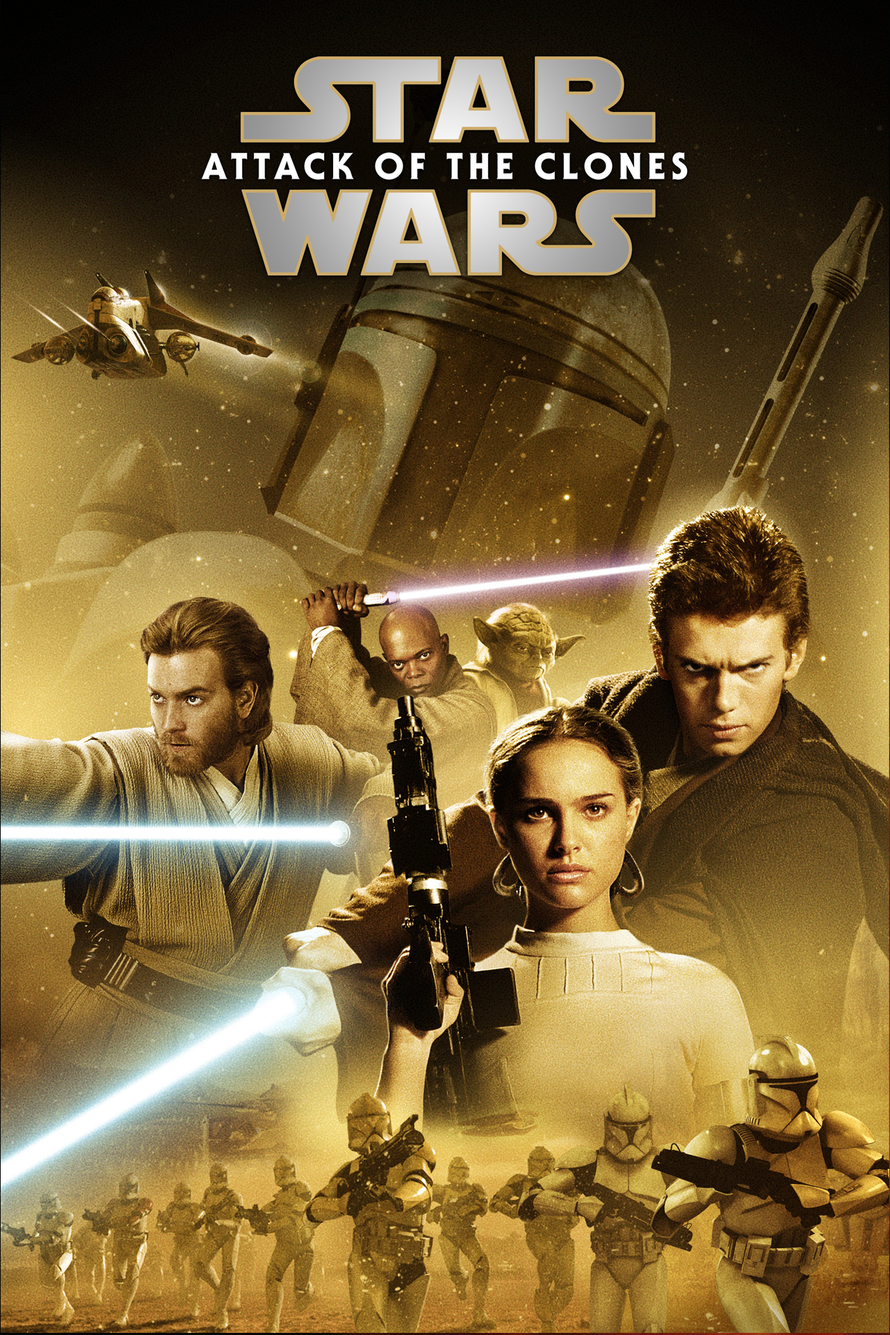
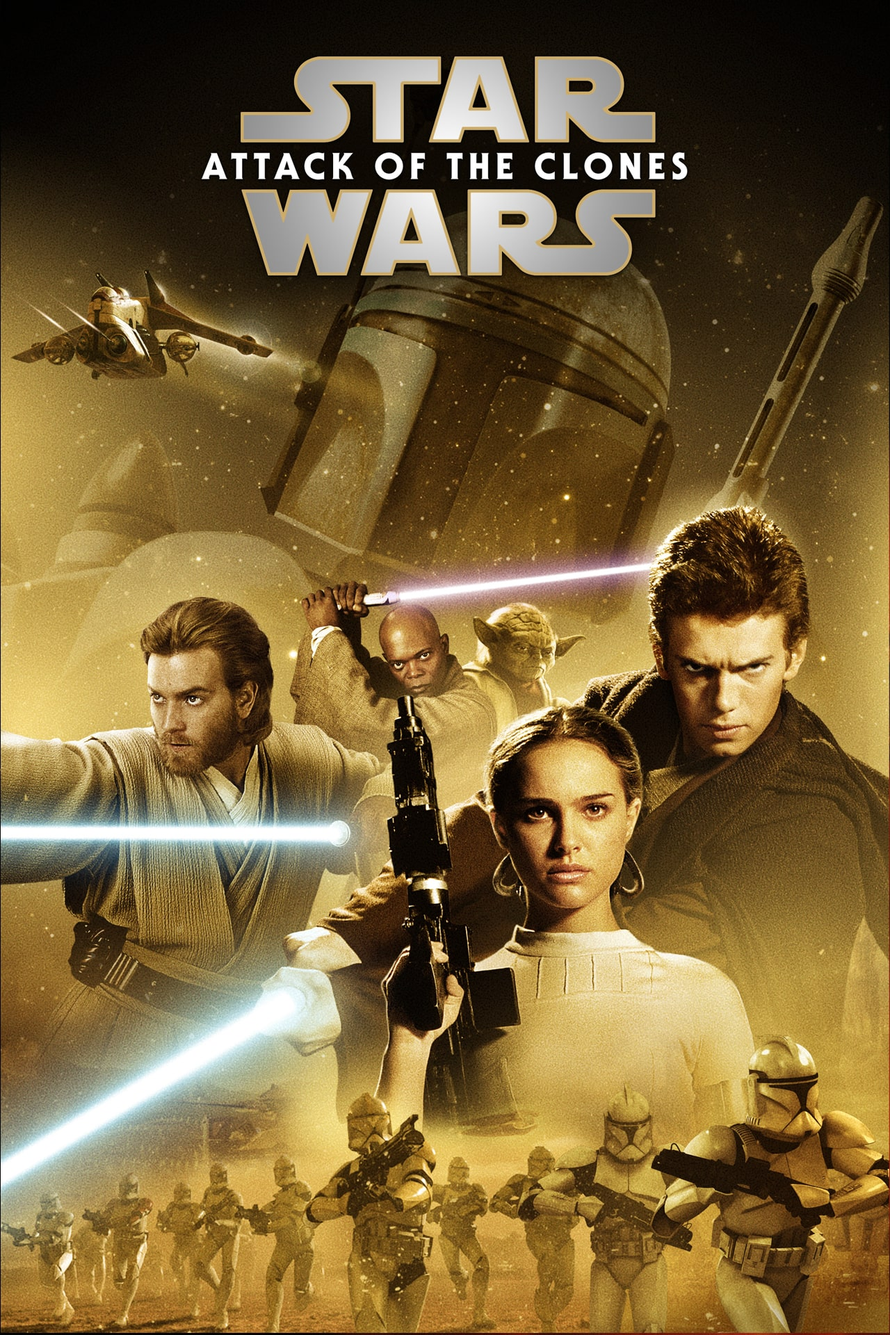
Images optimised

Changed region(s): [[0.7188, 0.4062, 0.7812, 0.4375], [0.5625, 0.5312, 0.5938, 0.5625]]

diff --git a/scss/components/_not-found.scss b/scss/components/_not-found.scss
@@ -15,8 +15,6 @@
   h1 {
     font-size: 4rem;
   }
-  h2 {
-  }
   p {
     text-align: center;
   }
